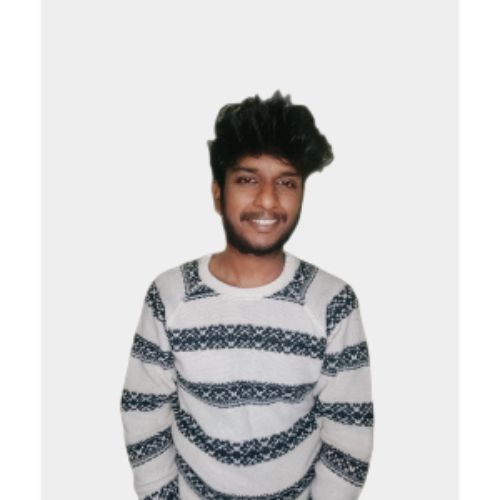
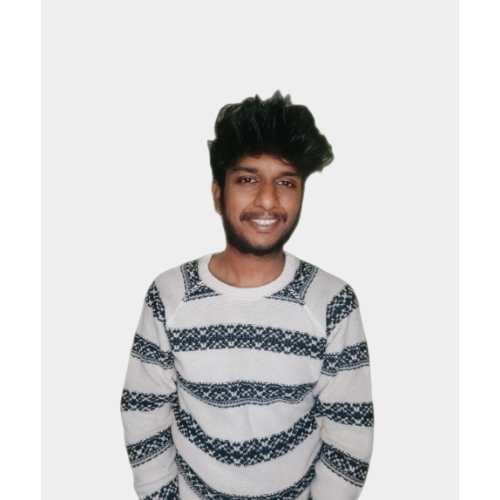
pic

diff --git a/team.html b/team.html
@@ -135,7 +135,7 @@
               <div class="col-lg-3 col-md-6 d-flex align-items-stretch" data-aos="fade-up" data-aos-delay="100">
                 <div class="member">
                   <div class="member-img">
-                    <img src="assets/team/Shravani_.jpg" class="img-fluid" alt="">
+                    <img src="assets/team/Shravani_-1-fotor-bg-remover-20240305165.png" class="img-fluid" alt="">
                     <div class="social">
                       <a target="_blank"  href="https://www.instagram.com/shravani_j_2004?igsh=cXozM3ZsaWYycWtr"><i class="bi bi-instagram"></i></a>
                       <a target="_blank"  href="https://www.linkedin.com/in/shravani-jakka-1313a22a5?utm_source=share&utm_campaign=share_via&utm_content=profile&utm_medium=android_app"><i class="bi bi-linkedin"></i></a>
@@ -166,7 +166,7 @@
               <div class="col-lg-3 col-md-6 d-flex align-items-stretch" data-aos="fade-up" data-aos-delay="100">
                 <div class="member">
                   <div class="member-img">
-                    <img src="assets/team/Laasyakshara_.jpg" class="img-fluid" alt="">
+                    <img src="assets/team/Laasyakshara_-fotor-bg-remover-202403051449.png" class="img-fluid" alt="">
                     <div class="social">
                       <a target="_blank"  href="https://www.instagram.com/laasya_0235?igsh=MTJxNzRneTVlcXRoeQ%3D%3D"><i class="bi bi-instagram"></i></a>
                       <a target="_blank"  href="https://www.linkedin.com/in/laasyakshara-podishetty-720b28280"><i class="bi bi-linkedin"></i></a>
@@ -230,7 +230,7 @@
               <div class="col-lg-3 col-md-6 d-flex align-items-stretch" data-aos="fade-up" data-aos-delay="100">
                 <div class="member">
                   <div class="member-img">
-                    <img src="assets/team/SAVE_20240228_191238.jpg" class="img-fluid" alt="">
+                    <img src="assets/team/SAVE_20240228_191238-Photoroom.png-Photoroom.png" class="img-fluid" alt="">
                     <div class="social">
                       <a target="_blank"  href="https://www.instagram.com/irk010?igsh=d2UweHd0N3Q3MWpz"><i class="bi bi-instagram"></i></a>
                       <a target="_blank"  href="https://www.linkedin.com/in/isaac-karkala-3163342a7?utm_source=share&utm_campaign=share_via&utm_content=profile&utm_medium=android_app"><i class="bi bi-linkedin"></i></a>
@@ -262,14 +262,14 @@
               <div class="col-lg-3 col-md-6 d-flex align-items-stretch" data-aos="fade-up" data-aos-delay="100">
                 <div class="member">
                   <div class="member-img">
-                    <img src="assets/team/Advitha.jpg" class="img-fluid" alt="">
+                    <img src="assets/team/Advitha-Photoroom.png-Photoroom.png" class= "img-fluid" alt="">
                     <div class="social">
                       <a target="_blank"  href="https://www.instagram.com/_adveitha88/"><i class="bi bi-instagram"></i></a>
                       <a target="_blank"  href="https://www.linkedin.com/in/adveitha-bokkali-b66a9a2a4?utm_source=share&utm_campaign=share_via&utm_content=profile&utm_medium=android_app"><i class="bi bi-linkedin"></i></a>
                     </div>
                   </div>
                   <div class="member-info">
-                    <h4>PB. Adveitha</h4>
+                    <h4>Adveitha</h4>
                     <span>POSTER DESIGNING</span>
                   </div>
                 </div>
@@ -278,7 +278,7 @@
               <div class="col-lg-3 col-md-6 d-flex align-items-stretch" data-aos="fade-up" data-aos-delay="100">
                 <div class="member">
                   <div class="member-img">
-                    <img src="assets/team/Meghana-hospitality.jpg" class="img-fluid" alt="">
+                    <img src="assets/team/Meghana-hospitality (1)-fotor-bg-remover-2024030525648.png" class="img-fluid" alt="">
                     <div class="social">
                       <a target="_blank"  href="https://www.instagram.com/meghana_15r/"><i class="bi bi-instagram"></i></a>
                       <a target="_blank"  href="https://www.linkedin.com/in/meghana-reddimasu-0b31b82a5?utm_source=share&utm_campaign=share_via&utm_content=profile&utm_medium=ios_app"><i class="bi bi-linkedin"></i></a>
@@ -294,7 +294,7 @@
               <div class="col-lg-3 col-md-6 d-flex align-items-stretch" data-aos="fade-up" data-aos-delay="100">
                 <div class="member">
                   <div class="member-img">
-                    <img src="assets/team/IMG-20240229-WA0012.jpg" class="img-fluid" alt="">
+                    <img src="assets/team/IMG-20240229-WA0012-Photoroom.png-Photoroom.png" class="img-fluid" alt="">
                     <div class="social">
                       <a target="_blank"  href="https://www.instagram.com/sharanyatumula?igsh=OWhkYzZuOTludmFn"><i class="bi bi-instagram"></i></a>
                       <a target="_blank"  href="https://www.linkedin.com/in/sharanya-tumula-6025692a7?utm_source=share&utm_campaign=share_via&utm_content=profile&utm_medium=android_app"><i class="bi bi-linkedin"></i></a>
@@ -374,7 +374,7 @@
               <div class="col-lg-3 col-md-6 d-flex align-items-stretch" data-aos="fade-up" data-aos-delay="100">
                 <div class="member">
                   <div class="member-img">
-                    <img src="assets/team/IMG_20240229_004851.jpg" class="img-fluid" alt="">
+                    <img src="assets/team/IMG_20240229_004851-Photoroom.png-Photoroom.png" class="img-fluid" alt="">
                     <div class="social">
                       <a href="https://www.instagram.com/karthikeya_20045?igsh=bnFmcDJ6OXNucWRm"><i class="bi bi-instagram"></i></a>
                       <a href="https://www.linkedin.com/in/karthikeya-denchanala-1872992b0?utm_source=share&utm_campaign=share_via&utm_content=profile&utm_medium=android_app"><i class="bi bi-linkedin"></i></a>
@@ -390,7 +390,7 @@
               <div class="col-lg-3 col-md-6 d-flex align-items-stretch" data-aos="fade-up" data-aos-delay="100">
                 <div class="member">
                   <div class="member-img">
-                    <img src="assets/team/K Adharsh.jpg" class="img-fluid" alt="">
+                    <img src="assets/team/K Adharsh-Photoroom.png-Photoroom.png" class="img-fluid" alt="">
                     <div class="social">
                       <a target="_blank" href="https://www.instagram.com/adarsh_kokkula/"><i class="bi bi-instagram"></i></a>
                       <a target="_blank"  href="https://www.linkedin.com/in/adharsh-kokkula/"><i class="bi bi-linkedin"></i></a>
@@ -406,7 +406,7 @@
               <div class="col-lg-3 col-md-6 d-flex align-items-stretch" data-aos="fade-up" data-aos-delay="100">
                 <div class="member">
                   <div class="member-img">
-                    <img src="assets/team/Hemanthsai Katuri-WD.jpg" class="img-fluid" alt="">
+                    <img src="assets/team/Hemanthsai Katuri-WD-Photoroom.png-Photoroom.png" class="img-fluid" alt="">
                     <div class="social">
                       <a target="_blank"  href="https://www.instagram.com/_hemanths.ai/"><i class="bi bi-instagram"></i></a>
                       <a target="_blank"  href="https://www.linkedin.com/in/hemanthsai-katuri-91b72925a/"><i class="bi bi-linkedin"></i></a>
@@ -454,7 +454,7 @@
               <div class="col-lg-3 col-md-6 d-flex align-items-stretch" data-aos="fade-up" data-aos-delay="100">
                 <div class="member">
                   <div class="member-img">
-                    <img src="assets/team/V joshitha_.jpg" class="img-fluid" alt="">
+                    <img src="assets/team/V joshitha_ (1).jpg" class="img-fluid" alt="">
                     <div class="social">
                       <a target="_blank"  href="#"><i class="bi bi-instagram"></i></a>
                       <a target="_blank"  href="https://www.linkedin.com/in/vallamkondu-joshitha-11187228b?utm_source=share&utm_campaign=share_via&utm_content=profile&utm_medium=android_app"><i class="bi bi-linkedin"></i></a>
